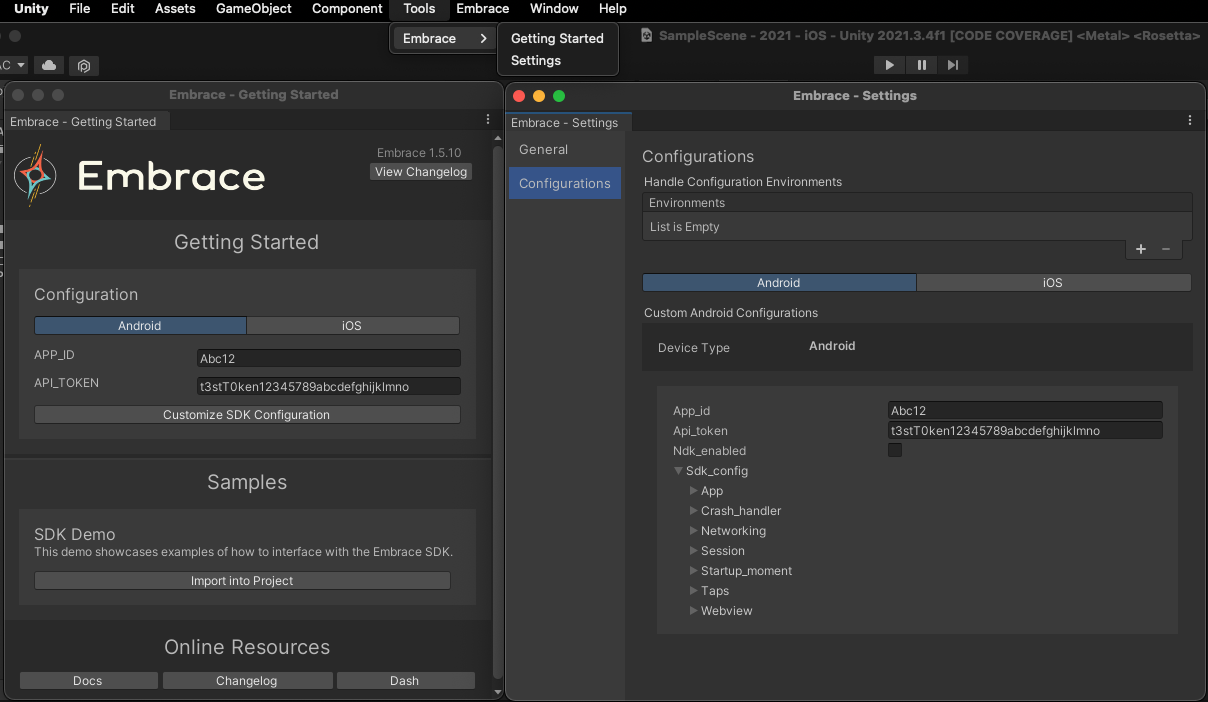
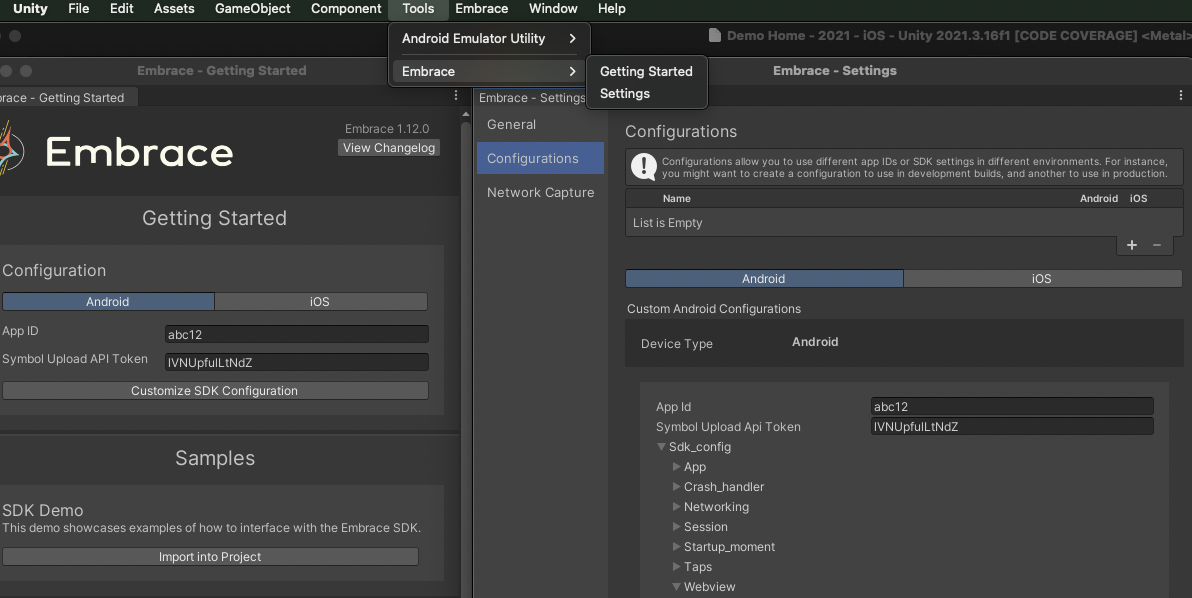
[EMB-11529] update unity build-options page for new configuration window

diff --git a/docs/unity/features/build-options.md b/docs/unity/features/build-options.md
@@ -15,41 +15,41 @@ Configuration options can be accessed in the **Configurations** tab of the **Set
 
 <img src={require('@site/static/images/unity-config-windows.png').default} />
 
-## Configuring Environments
+## Creating and Editing Configurations
 
-Some applications have complex build pipelines.  For example, it's common practice for a development team to work in a "Dev" environment, then push their changes to a "Staging" when features are complete and ready to be tested, and finally released to a "Production" upon final approval. In such cases it may be beneficial define different configuration options for each environment.  The Embrace SDK supports this this type of workflow through the **Environments** list available in the **Settings** window.
+Some applications have complex build pipelines.  For example, it's common practice for a development team to work in a "Dev" environment, then push their changes to a "Staging" when features are complete and ready to be tested, and finally released to a "Production" upon final approval. In such cases it may be beneficial define different configuration options for each environment.  The Embrace SDK supports this this type of workflow through the **Configurations** list available in the **Settings** window.
 
-<img src={require('@site/static/images/unity-environments-configuration.png').default} />
+<img src={require('@site/static/images/unity-configuration-editor.png').default} />
 
-Using this list you can easily add, rename, or remove environments as needed.  Each environment will create an Android and iOS configuration file stored in the Embrace data directory.  
+Using this list you can easily add, rename, or remove configurations as needed.  Each configuration will create an Android and iOS configuration file stored in the Embrace data directory. The names of these configurations are only used to identify them in the Unity editor, and will not be replicated in the Embrace dashboard. 
 
-You can select and configure each environment by clicking on the **"="** icon to the left of each list item in the **Settings** window, or by selecting an environment from the **Getting Started** window.
+You can select and edit each configuration by clicking on the toggle to the left of each list item in the **Settings** window, or by selecting a configuration from the **Getting Started** window.
 
-<img src={require('@site/static/images/unity-environments-select.png').default} />
+<img src={require('@site/static/images/unity-configuration-select.png').default} />
 
-*NOTE: Most of the time users will not see the creation of configuration data when the **Environments** list is edited.  However, if you happen to peek in the **Configurations** folder, you'll notice that upon defining an environment configuration objects are created with a GUID-based name.  They will get automatically renamed to match user input once the **Update Environments** is pressed, or if the **Settings** window loses focus.  See the reference images above for an example.*
+*NOTE: Most of the time users will not see the creation of configuration data when the **Configurations** list is edited.  However, if you happen to peek in the **Configurations** folder, you'll notice that upon defining a configuration objects are created with a GUID-based name.  They will get automatically renamed to match user input once the **Update Configurations** button is pressed, or if the **Settings** window loses focus.  See the reference images above for an example.*
 
-## Specifying Environments At Build Time
+## Specifying Configurations At Build Time
 
-The Embrace SDK also supports specifying a configuration environment at build-time through the use of environment variables defined at the OS level. This feature can enable a CI/CD pipeline to define which environment to build with. We support the follwing definitions:
+The Embrace SDK also supports specifying a configuration at build-time through the use of environment variables defined at the OS level. This feature can enable a CI/CD pipeline to define which configuration to build with. We support the follwing definitions:
 
 ```EMBRACE_ENVIRONMENTS_INDEX```
-* Define this variable with the index number of an existing Embrace configuration environment.
+* Define this variable with the index number of an existing Embrace configuration.
 
 :::warning Important
 Out-of-range indices will result in build failure.
 :::
 
 ```EMBRACE_ENVIRONMENTS_NAME```
-* Define this variable with the name of an existing configuration environment (e.g. "Dev", "Staging", or "Prod");
+* Define this variable with the name of an existing configuration (e.g. "Dev", "Staging", or "Prod");
 
 :::warning Important
   We only support the use of a single environment variable to specify an Embrace configuration. Please be aware that defining both variables at build-time will result in a failed build.
 :::
 
-For example, let's assume the following environment configurations are defined ("Dev", "Staging", and "Prod"), and the CI/CD build-time target environment should be "Staging".
+For example, let's assume the following configurations are defined ("Dev", "Staging", and "Prod"), and the CI/CD build-time target environment should be "Staging".
 
-<img src={require('@site/static/images/unity-environments-closeup.png').default} />
+<img src={require('@site/static/images/unity-configuration-closeup.png').default} />
 
 If you'd like to specify "Staging" via it's index, you would define the following:
 
@@ -69,7 +69,7 @@ Alternatively, to specify by the name "Staging":
 
 ## Configuration Output
 
-Users will notice that both default, and environment-defined configurations already have some fields defined upon creation.  These fields correspond to the defaults specified for [Android](/android/features/configuration-file/) and [iOS](/ios/features/configuration-file/). At build time, configuration files are loaded and scanned for **non-default** settings, which are then output to an override configuration file for their specific platforms.
+Users will notice that both default and custom configurations already have some fields defined upon creation.  These fields correspond to the defaults specified for [Android](/android/features/configuration-file/) and [iOS](/ios/features/configuration-file/). At build time, configuration files are loaded and scanned for **non-default** settings, which are then output to an override configuration file for their specific platforms.
 
 <img src={require('@site/static/images/unity-configuration-defaults.png').default} />
 
